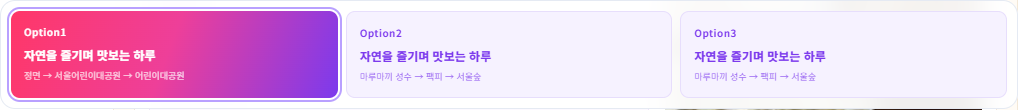
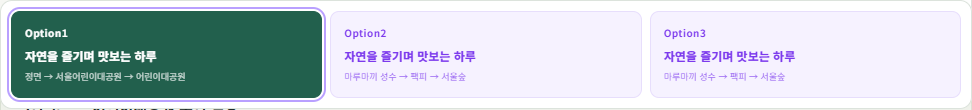
디자인 교체

diff --git a/datemate/static/calm.css b/datemate/static/calm.css
@@ -1,0 +1,17 @@
+/* Calm editorial theme. Keep behavior and component IDs in the existing app. */
+:root{--paper:#f7f8f4;--ink:#202d29;--muted:#56665e;--line:#dce3dc;--orange:#22604d;--green:#22604d;--soft:#edf3ed;--radius:16px;--gradient:linear-gradient(0deg,#22604d,#22604d)}
+body{background:var(--paper);color:var(--ink);font-size:15px;line-height:1.65}
+header{height:76px;background:#fffffff5;border-bottom:1px solid var(--line);padding-inline:max(24px,calc((100vw - 1320px)/2));gap:24px}
+.brand{color:var(--ink);font-size:21px}.brand-icon{background:#22604d;border-radius:13px;box-shadow:none;width:40px;height:40px;font-size:29px}.brand-name small{color:var(--muted);font-size:11px}.ai-label{display:none}nav{gap:24px}nav a,.nav{color:#526159;font-size:14px}.nav.active{color:#22604d}
+main{max-width:1400px;padding:0 40px}button,input,select,textarea{font:inherit}button,.primary,select,input:not([type=checkbox]):not([type=radio]):not([type=range]){min-height:44px}button{border-radius:10px}button:focus-visible,a:focus-visible,input:focus-visible,select:focus-visible,textarea:focus-visible,summary:focus-visible{outline:3px solid #22604d!important;outline-offset:4px}button:disabled{cursor:wait;opacity:.65}
+.primary{background:#22604d!important;color:#fff!important;box-shadow:none!important;border:1px solid #22604d!important;font-weight:700}.primary:hover{background:#194b3b!important}.nav-cta{font-size:13px;padding:10px 18px}
+.hero{min-height:0;padding:52px 0 48px;gap:56px;align-items:center;background:none}.hero:before,.hero:after{display:none}.hero-copy{flex:1}.hero-pill{background:none;border:0;box-shadow:none;color:#22604d;font-size:13px;padding:0;letter-spacing:.04em}.hero h1{font-size:clamp(32px,3.1vw,47px);line-height:1.28;letter-spacing:-1.8px;margin:18px 0 20px}.hero h1 em{background:none;color:#22604d;-webkit-text-fill-color:#22604d}.hero-description{font-size:16px;line-height:1.85;color:#526159;max-width:580px}.hero-photo{margin:26px 0 0;position:relative;overflow:hidden;border-radius:16px;height:210px;max-width:600px}.hero-photo img{display:block;width:100%;height:100%;object-fit:cover;object-position:center 65%}.hero-photo figcaption{position:absolute;bottom:12px;left:14px;background:#183329e8;color:white;padding:5px 10px;border-radius:6px;font-size:12px}
+.quick-builder{flex:0 0 420px;width:420px;background:#fff;border:1px solid var(--line);border-radius:20px;padding:28px;box-shadow:0 8px 32px #23392b08}.eyebrow{color:#22604d!important;font-size:12px;letter-spacing:.08em}.quick-builder>.eyebrow span{display:none}.quick-builder h2{font-size:24px;letter-spacing:-.7px}.quick-label{font-size:14px;margin:22px 0 10px;color:var(--ink)}.quick-label small{color:var(--muted);font-size:12px}.quick-regions{gap:8px}.quick-regions button{font-size:13px;padding:8px 6px}.quick-regions button,.quick-moods button{border:1px solid var(--line);background:white;color:var(--ink);box-shadow:none!important}.quick-regions button[aria-pressed=true],.quick-moods button[aria-pressed=true]{background:#edf3ed!important;color:#184d3a!important;border:2px solid #22604d!important;box-shadow:none!important}.quick-moods button{min-height:76px;font-size:14px;border-radius:10px}.quick-moods small,.quick-moods button[aria-pressed=true] small{font-size:12px;color:#526159!important}.quick-budget{border:0;background:#f7f8f4;border-radius:12px;padding:16px;margin:22px 0}.quick-budget label{font-size:13px}.quick-budget output{color:#22604d;font-size:21px}.quick-budget input{accent-color:#22604d;background:#dce8dd}.quick-budget>div,.quick-footnote{color:var(--muted);font-size:12px}.quick-footnote{line-height:1.6;margin-bottom:0}.quick-builder .full{min-height:48px}
+.workspace-intro{border-top:1px solid var(--line);padding-top:32px;margin:10px 0 28px}.workspace-intro h2{font-size:28px;color:var(--ink)}.workspace{grid-template-columns:320px minmax(0,1fr);gap:28px}.panel,.conditions.panel{background:#fff;border:1px solid var(--line);border-radius:16px;box-shadow:none}.conditions.panel{padding:22px}.section-heading{gap:10px}.section-heading h2{font-size:20px}.step{background:#edf3ed;color:#22604d;border-radius:7px}.conditions label,.conditions legend{font-size:13px;color:#34473c}.conditions fieldset{border-color:var(--line);border-radius:10px}.conditions input,.conditions select,.conditions textarea{border-color:#c8d3c9;border-radius:8px;background:#fff;color:var(--ink)}.conditions textarea{font-size:14px;line-height:1.65}.hint,.muted,.small,.conditions .hint,.detail .hint{color:var(--muted);font-size:12px;line-height:1.7}summary{min-height:44px;align-content:center;font-size:13px;cursor:pointer}.service-details{color:var(--muted)}
+.empty-state{background:#eef2eb;border:1px solid var(--line);border-radius:16px;min-height:390px;padding:32px 24px}.empty-state h3{font-size:28px}.empty-state em,.journal-heart,.journal-steps b{color:#22604d}.journal-top{color:#526159;font-size:11px}.journal-spark,.journal-orbit{display:none}.journal-heart{font-size:54px}.journal-illustration{height:90px}.journal-steps{font-size:12px}.journal-demo{font-size:12px!important}
+.plan-card,.plan-card.selected{border-radius:14px;box-shadow:none;background:#fff;border:1px solid var(--line)}.plan-card.selected{border:2px solid #22604d;background:#fff}.plan-card h3{font-size:22px}.plan-card .number,.route-line{color:#22604d}.plan-option-tabs{border-radius:12px!important;background:#fff!important;box-shadow:0 4px 12px #20302606}.plan-option-tabs button{white-space:normal;font-size:13px;min-height:48px}.plan-option-tabs button[aria-pressed=true],.plan-option-tabs button[aria-selected=true]{background:#22604d!important;color:white!important;border-color:#22604d!important}.stats small{color:var(--muted);font-size:12px}.detail.panel{background:transparent;border:0}.detail .actions button{background:#edf3ed;color:#22604d;border-color:#cfddcf}.timeline-card{border-color:var(--line);border-radius:16px;padding:22px;box-shadow:none}.stop:before{border-color:#9fb7a5}.stop-number{color:#22604d;border-color:#9fb7a5}.timeline-stamp strong{font-size:22px}.timeline-stamp small{font-size:12px;color:var(--muted)}.step-category,.stop:nth-of-type(even) .step-category,.tag{background:#edf3ed;color:#22604d;font-size:12px}.stop h4{font-size:22px;line-height:1.5}.stop-cost{color:#22604d;font-size:13px;background:#f3f6f1}.route-line{font-size:13px}.place-blogs{background:#f7f8f4!important;border-color:var(--line)!important}.place-blogs summary{color:#22604d!important}.plan-photo-item>strong{font-size:13px}.meal-suggestions{background:#f1f4ed!important;border-color:#dce3d6!important;border-radius:14px!important;margin-left:0!important}.meal-card{border-color:var(--line)!important}.condition-differences{background:#fff8ed!important;border-color:#e6d3ac!important}.data-banner{background:#e8eee5;color:var(--ink);border-radius:16px;box-shadow:none;padding:28px;margin-bottom:48px}.data-banner .eyebrow,.data-banner p:not(.eyebrow),.data-point span{color:#526159}.data-point{background:transparent;border:0;border-left:1px solid #c9d5c7;border-radius:0;min-height:0;padding:10px 18px}.data-point strong{color:#22604d;font-size:27px}.data-point span{font-size:13px}.data-banner h2{font-size:23px}.data-banner p:not(.eyebrow){font-size:13px}.curation{margin-top:36px;padding-top:24px}.curation-heading{text-align:left}.curation-heading h2{font-size:28px}.curation-heading>p:last-child{font-size:14px;color:var(--muted)}.curation-card{border-radius:14px;box-shadow:none;transition:border-color .15s}.curation-card:hover{transform:none;border-color:#22604d;box-shadow:none}.preset-art{height:100px;font-size:36px;justify-content:flex-start;padding:24px}.preset-art span{font-size:30px;color:#526159}.art-pink{background:#eee9e1}.art-mint{background:#e5ece2}.art-blue{background:#e4eaf0}.preset-copy{padding:22px}.preset-copy h3{font-size:19px;line-height:1.5}.preset-copy p{font-size:13px;color:var(--muted)}.preset-copy strong{color:#22604d;font-size:13px}footer{color:var(--muted);font-size:13px}#progress:not(:empty){background:#edf3ed;color:#22604d}
+.secondary,#parse{background:#edf3ed!important;color:#22604d!important;border:1px solid #cfddcf!important;box-shadow:none!important}.date-subcategories input:checked+span{background:#22604d!important;color:white!important;border-color:#22604d!important}.date-subcategories span{font-size:12px;min-height:44px}.date-category-tab{font-size:12px}.hero .hero-description{font-size:16px}.quick-builder .quick-footnote{font-size:12px}
+@media(min-width:1001px){.hero-copy{max-width:none}}
+@media(max-width:1100px){header{gap:16px;padding-inline:24px}nav{gap:14px}.nav-cta{display:none}.hero{gap:28px}.quick-builder{flex-basis:380px;width:380px;padding:24px}.workspace{grid-template-columns:290px minmax(0,1fr)}}
+@media(max-width:800px){header{height:auto;min-height:72px;padding:12px 20px;flex-wrap:wrap;gap:10px}header nav{width:100%;justify-content:space-between;gap:8px}nav a,.nav{font-size:12px;min-height:40px;align-content:center}main{padding:0 20px}.hero{display:flex;flex-direction:column;gap:24px;padding:28px 0}.hero-copy{width:100%}.hero h1{font-size:34px;letter-spacing:-1.2px}.hero-description{font-size:14px}.hero-photo{height:160px;max-width:none;margin-top:20px}.quick-builder{flex:auto;width:100%;max-width:none;padding:22px}.workspace{grid-template-columns:1fr;gap:28px}.workspace-intro h2,.curation-heading h2{font-size:25px}.data-banner{grid-template-columns:1fr;gap:10px;padding:24px}.data-point{display:flex;align-items:center;gap:18px;border-left:0;border-top:1px solid #c9d5c7;padding:12px 0}.curation-grid{grid-template-columns:1fr}.preset-art{height:74px}.curation-card{display:grid;grid-template-columns:80px minmax(0,1fr)}.preset-art{height:100%;padding:16px;font-size:30px;flex-direction:column;justify-content:center}.preset-copy{padding:18px}.preset-copy h3{margin:10px 0}.preset-copy p{min-height:0}.preset-copy .tag{font-size:11px}.stop{grid-template-columns:52px minmax(0,1fr);gap:10px}.stop:before{left:44px}.timeline-stamp{padding-right:9px}.timeline-stamp strong{font-size:16px}.timeline-stamp small{font-size:11px}.timeline-card{padding:15px;border-radius:12px}.stop h4{font-size:19px}.route-line{padding-left:62px}.section-heading{flex-wrap:wrap}.section-heading h2{font-size:19px}.journal-steps{gap:8px;font-size:11px}.empty-state{padding:24px 16px}.plan-option-tabs{position:static!important}.meal-suggestions{margin-left:0!important}.data-banner h2{font-size:23px}}
+@media(prefers-reduced-motion:reduce){html{scroll-behavior:auto}*,*:before,*:after{animation:none!important;transition:none!important}}

diff --git a/datemate/static/index.html b/datemate/static/index.html
@@ -1,10 +1,10 @@
 <!doctype html>
-<html lang="ko"><head><meta charset="UTF-8"><meta name="viewport" content="width=device-width,initial-scale=1"><title>서울 데이트메이트 · 서울 데이트 코스 추천</title><link rel="stylesheet" href="/static/vendor/leaflet/leaflet.css"><link rel="stylesheet" href="/static/style.css"><link rel="stylesheet" href="/static/place-photos.css"><link rel="stylesheet" href="/static/plan-map.css"><link rel=stylesheet href=/static/location-picker.css><link rel="stylesheet" href="/static/selle.css"><link rel="stylesheet" href="/static/date-categories.css"><script src="/static/vendor/leaflet/leaflet.js" defer></script><script src="/static/location-picker.js" defer></script><script src="/static/maps.js" defer></script><script src="/static/recommendation-feedback.js" defer></script><script src="/static/date-categories.js" defer></script><script src="/static/wikimedia-photos.js" defer></script><script src="/static/place-blogs.js" defer></script><script src="/static/meal-suggestions.js" defer></script><script src="/static/place-photos.js" defer></script><script src="/static/price-controls.js" defer></script><script src="/static/experience.js" defer></script><script src="/static/app.js" defer></script><script src="/static/course-search.js" defer></script><script src="/static/romance.js" defer></script><script src="/static/quick-builder.js" defer></script></head>
+<html lang="ko"><head><meta charset="UTF-8"><meta name="viewport" content="width=device-width,initial-scale=1"><title>서울 데이트메이트 · 서울 데이트 코스 추천</title><link rel="stylesheet" href="/static/vendor/leaflet/leaflet.css"><link rel="stylesheet" href="/static/style.css"><link rel="stylesheet" href="/static/place-photos.css"><link rel="stylesheet" href="/static/plan-map.css"><link rel=stylesheet href=/static/location-picker.css><link rel="stylesheet" href="/static/selle.css"><link rel="stylesheet" href="/static/date-categories.css"><link rel="stylesheet" href="/static/calm.css"><script src="/static/vendor/leaflet/leaflet.js" defer></script><script src="/static/location-picker.js" defer></script><script src="/static/maps.js" defer></script><script src="/static/recommendation-feedback.js" defer></script><script src="/static/date-categories.js" defer></script><script src="/static/wikimedia-photos.js" defer></script><script src="/static/place-blogs.js" defer></script><script src="/static/meal-suggestions.js" defer></script><script src="/static/place-photos.js" defer></script><script src="/static/price-controls.js" defer></script><script src="/static/experience.js" defer></script><script src="/static/app.js" defer></script><script src="/static/course-search.js" defer></script><script src="/static/romance.js" defer></script><script src="/static/quick-builder.js" defer></script></head>
 <body>
 <header><a class="brand" href="/"><span class="brand-icon">♡</span><span class="brand-name">데이트메이트<small>취향을 담은 서울 데이트 설계</small></span><span class="ai-label">AI Planner</span></a><nav><button id="nav-plan" class="nav active">코스 만들기</button><button id="nav-explore" class="nav">서울 장소 둘러보기</button><a href="#curation">테마별 추천</a></nav><a class="primary nav-cta" href="#planner-section">우리 코스 설계하기 →</a><span id="mode-badge" class="mode-badge">SEOUL PLANNER</span></header>
 <main>
 <section class="hero romance-hero">
-<div class="hero-copy"><p class="hero-pill">● 서울에서 만나는, 우리만의 하루</p><h1>오늘 어디 갈지 고민 끝,<br><em>우리다운 하루를 설계해요</em></h1><p class="hero-description">취향에 맞는 장소부터 사진과 블로그 후기, 이동 시간과 예산까지.<br>흩어진 데이트 아이디어를 하나의 코스로 이어 보세요.</p><div class="route-feature"><div class="route-art" aria-hidden="true"><span>☕</span><i></i><span>✦</span><i></i><span>♡</span></div><div><p class="eyebrow">A LITTLE PLAN, A LOVELY DAY</p><strong>“카페 갔다가 뭐 하지?”<br>그다음 설렘까지 이어지는 코스</strong><div class="feature-tags"><span>서울 전역</span><span>사진 · 후기</span><span>맞춤 이동 동선</span></div></div></div></div>
+<div class="hero-copy"><p class="hero-pill">● 서울에서 만나는, 우리만의 하루</p><h1>오늘 어디 갈지 고민 끝,<br><em>우리다운 하루를 설계해요</em></h1><p class="hero-description">취향에 맞는 장소부터 사진과 블로그 후기, 이동 시간과 예산까지.<br>흩어진 데이트 아이디어를 하나의 코스로 이어 보세요.</p><figure class="hero-photo"><img src="/static/images/seoul-evening.jpg" alt="해 질 무렵 서울의 골목 풍경" width="1400" height="933"><figcaption>익숙한 서울, 새로운 하루.</figcaption></figure></div>
 <div class="quick-builder"><p class="eyebrow">QUICK DATE BUILDER <span>✧</span></p><h2>나만의 맞춤 코스 설계</h2><p class="quick-label">1. 어디에서 데이트할까요? <small>데이트할 지역 선택</small></p><div class="quick-regions"><button type="button" data-region="성수" aria-pressed="true">🏙 성수</button><button type="button" data-region="연남" aria-pressed="false">🌿 연남</button><button type="button" data-region="종로" aria-pressed="false">🏛 종로</button><button type="button" data-region="강남" aria-pressed="false">✨ 강남</button></div><p class="quick-label">2. 오늘 원하는 데이트 무드는?</p><div class="quick-moods"><button type="button" data-quick-mood="편안한 데이트" aria-pressed="true">💖 로맨틱한<small>산책 · 풍경 · 여유</small></button><button type="button" data-quick-mood="활동적인 데이트" aria-pressed="false">🎨 활동적인<small>체험 · 새로운 즐거움</small></button><button type="button" data-quick-mood="지적인 데이트" aria-pressed="false">📚 문화 산책<small>전시 · 박물관 · 이야기</small></button><button type="button" data-quick-mood="사교적인" aria-pressed="false">☕ 함께 수다<small>카페 · 대화 · 맛집</small></button></div><div class="quick-budget"><label for="quick-budget">3. 전체 예상 예산 <output id="quick-budget-value">100,000원</output></label><input id="quick-budget" type="range" min="10000" max="300000" step="10000" value="100000"><div><span>가볍게 1만원</span><span>넉넉하게 30만원</span></div></div><button type="button" id="quick-start" class="primary full">✦ 맞춤 데이트 코스 만들기 →</button><p class="quick-footnote">기본 2인 · 상세 조건에서 날짜와 데이트할 지역을 변경할 수 있어요.</p></div>
 </section>
 <details class="service-details"><summary>서울 전용 서비스 · 데이터 및 이용 안내 <span>+</span></summary><div class="notice" id="status" role="status">서비스 상태를 확인하고 있어요.</div></details>

diff --git a/datemate/scripts/check_calm_design_ui.py b/datemate/scripts/check_calm_design_ui.py
@@ -1,0 +1,39 @@
+"""Browser smoke checks for the calm theme, without paid recommendation calls."""
+from pathlib import Path
+import json
+from playwright.sync_api import sync_playwright
+
+out = Path(__file__).resolve().parents[1] / 'docs' / 'screenshots'
+out.mkdir(parents=True, exist_ok=True)
+with sync_playwright() as pw:
+    browser = pw.chromium.launch(channel='msedge', headless=True)
+    page = browser.new_page(viewport={'width':1440,'height':1000})
+    errors = []
+    page.on('pageerror', lambda e: errors.append(str(e)))
+    page.goto('http://127.0.0.1:8000', wait_until='networkidle')
+    page.locator('[data-region="연남"]').click()
+    assert page.locator('[data-region="연남"]').get_attribute('aria-pressed') == 'true'
+    page.locator('#quick-budget').fill('130000')
+    assert '130,000' in page.locator('#quick-budget-value').inner_text()
+    assert page.locator('.hero-photo img').evaluate('(img)=>img.complete && img.naturalWidth>0')
+    page.screenshot(path=str(out/'calm-desktop.png'), full_page=True)
+    page.locator('#nav-explore').click()
+    assert page.locator('#explore-section').is_visible()
+    page.locator('#nav-plan').click()
+    assert page.locator('#planner-section').is_visible()
+    page.locator('[data-preset="종로"]').click()
+    assert page.locator('[data-region="종로"]').get_attribute('aria-pressed') == 'true'
+    for width in [390, 768, 1024, 1440]:
+        page.set_viewport_size({'width':width,'height':900})
+        assert page.evaluate('document.documentElement.scrollWidth <= innerWidth'), width
+    page.set_viewport_size({'width':390,'height':844})
+    page.evaluate('window.scrollTo(0,0)')
+    page.screenshot(path=str(out/'calm-mobile.png'), full_page=True)
+    page.locator('#quick-start').focus()
+    assert page.locator('#quick-start').evaluate('(e)=>e===document.activeElement')
+    page.emulate_media(reduced_motion='reduce')
+    assert page.evaluate('getComputedStyle(document.documentElement).scrollBehavior') == 'auto'
+    assert not errors, errors
+    print(json.dumps({'viewport_widths':[390,768,1024,1440], 'horizontal_overflow':False,
+                      'region_budget_presets_navigation':'passed','image':'loaded', 'page_errors':errors}))
+    browser.close()

diff --git a/datemate/docs/design-review.md b/datemate/docs/design-review.md
@@ -1,0 +1,49 @@
+# 데이트메이트 디자인 검토 · 2026-10-22
+
+## 범위와 방향
+
+세계적인 엔터테인먼트 서비스 10곳을 대표 사례로 선정했다. 객관적인 ‘세계 최고 10개’ 순위가 아니다. 공개 페이지의 정보 구조와 공식 제품 설명을 비교했다. 로그인 뒤 개인화 화면이나 모든 서비스의 실제 시각 화면을 직접 사용해 평가한 것은 아니다. Disney+, YouTube, Twitch, IMDb는 접근 제한 또는 동적 페이지 때문에 공식 카탈로그·제품 설명·도움말로 보완했다.
+
+데이트메이트는 영상을 소비하는 서비스보다 여러 조건을 비교해 방문을 결정하는 도구에 가깝다. 따라서 몰입형 검은 배경, 자동 재생, 강한 그라데이션 대신 읽기 편한 밝은 배경, 일관된 선택 표시, 장소 콘텐츠 중심의 구성을 적용한다.
+
+## 10개 서비스 비교
+
+| 서비스 / 확인한 공개 자료 | 참고한 구조 | 데이트메이트 적용 판단 |
+|---|---|---|
+| [Netflix](https://www.netflix.com/) | 시작 행동, 인기 콘텐츠, 설명과 FAQ를 구분 | 핵심 코스 만들기 버튼을 명확히. 자동 재생이나 근거 없는 인기 수치는 제외 |
+| [Spotify](https://www.spotify.com/kr-ko/premium/) | 핵심 시작 행동과 플랜 비교를 구분 | 첫 화면 빠른 선택과 아래 상세 설정을 분리. 모든 기능을 동등하게 강조하지 않음 |
+| [Disney+ 공식 카탈로그](https://ondisneyplus.disney.com/all-disney-plus-original-movies) | 작품을 탐색할 수 있는 카탈로그 | 장소 사진과 제목 중심으로 탐색. 방문 장소와 무관한 장식 이미지는 줄임 |
+| [YouTube 공식 제품 설명](https://blog.youtube/news-and-events/youtube-features-and-updates-2024/) | 큰 썸네일·텍스트, 단순한 인터페이스를 설명 | 읽을 수 있는 보조 글자, 일정과 사진의 역할 분리. 해당 설명의 일부는 TV용이며 웹 전체의 관찰 결과가 아님 |
+| [Twitch 공식 카테고리 안내](https://help.twitch.tv/s/article/about-twitch-categories) | 카테고리로 콘텐츠 발견을 돕는 구조 | 지역·취향 선택의 위치와 선택 상태를 명확히. 피드의 높은 정보 밀도는 가져오지 않음 |
+| [Steam](https://store.steampowered.com/) | 추천, 태그, 가격을 통한 탐색 | 코스의 취향 태그·비용을 일정한 시각 체계로 표시. 할인 배너식 강조는 제외 |
+| [Nintendo](https://www.nintendo.com/us/) | 게임·캐릭터·상품별 탐색 | 밝은 분위기와 익숙한 분류는 참고. 큰 캐릭터 장식 대신 서울 풍경 사용 |
+| [PlayStation](https://www.playstation.com/en-us/) | 게임·플랫폼 등 명확한 콘텐츠 묶음 | 상단 탐색과 본문 구획의 위계를 유지. 대형 캠페인 화면은 축소 |
+| [LEGO](https://www.lego.com/en-us) | 테마·나이·관심사·가격별 탐색 | 사용자가 아는 취향 이름과 예산을 선택 단서로 유지 |
+| [IMDb 공식 Watchlist 안내](https://help.imdb.com/article/imdb/track-movies-tv/watchlist-faq/G9PA556494DM8YBA) | 관심 작품을 모으고 다시 보는 비교 흐름 | 코스 옵션 비교와 다시 살펴보기 기능 유지. 확인되지 않은 별점은 만들지 않음 |
+
+## 연구 근거와 해석의 한계
+
+- [Tuch 외, 2012 / Google Research](https://research.google/pubs/the-role-of-visual-complexity-and-prototypicality-regarding-first-impression-of-websites-working-towards-understanding-aesthetic-judgments/): 시각적 복잡성과 익숙한 구조가 웹사이트의 초기 미적 판단에 영향을 주었다. 이를 근거로 배경 장식과 경쟁하는 강조색을 줄였다. 이 연구가 우리 서비스의 전환율·만족도 향상을 입증하지는 않는다.
+- [Nielsen Norman Group: Recognition and Recall](https://www.nngroup.com/articles/recognition-and-recall/): 기억해서 입력하는 부담보다 보이는 선택 단서를 제공하는 방향을 참고했다. 지역·취향 예시를 유지하고 선택 색상과 테두리를 일관되게 했다.
+- [Progressive Disclosure](https://www.nngroup.com/articles/progressive-disclosure/): 빠른 시작과 상세 조건의 기존 분리를 유지했다. 필수 설정을 숨겨 제출 오류를 일으키는 변경은 하지 않았다.
+- [WCAG 텍스트 대비](https://www.w3.org/WAI/WCAG21/Understanding/contrast-minimum.html): 핵심 본문·보조 문구·버튼 색의 대비를 확보하는 기준으로 사용했다. 일반 텍스트 기준 4.5:1. 전체 UI의 WCAG 준수 인증을 의미하지 않는다.
+- [WCAG 2.2 타깃 크기](https://www.w3.org/WAI/WCAG22/Understanding/target-size-minimum.html): 최소 크기 기준은 예외를 포함해 24 CSS px이다. 이 프로젝트의 주요 폼 버튼은 더 넉넉한 44px 이상을 목표로 잡았다. 지도 내 컨트롤 등 모든 요소를 44px로 강제하지는 않았다.
+
+## 구현
+
+- 따뜻한 회백색 바탕 `#f7f8f4`, 본문 `#202d29`, 보조 문구 `#56665e`, 핵심 행동 `#22604d`.
+- 분홍·보라 그라데이션과 장식 도형을 줄이고 기존 서울 골목 사진 사용. 개별 추천 장소의 사진으로 오인하지 않도록 일반적인 풍경 문구 사용.
+- 첫 화면 제목·설명·빠른 설정으로 시선 흐름 정리. 과장된 이용자 수나 만족도는 추가하지 않음.
+- 카드 테두리·반경·버튼·선택 상태 통일. 가격·일정·블로그 연결 기능 유지.
+- 식당 추천의 불필요한 왼쪽 여백 제거. 작은 화면의 일정 카드 여백과 타임라인 폭 조정.
+- 키보드 포커스 표시, 동작 줄이기 설정 대응, 보조 문구 크기 개선.
+- `static/calm.css`를 마지막 테마로 적용하여 기존 기능 스크립트와 API 계약은 유지.
+
+## 확인
+
+- Edge / Playwright: 390·768·1024·1440px에서 가로 넘침 없음.
+- 지역·예산·테마 프리셋·탐색 전환·대표 사진 로딩·키보드 포커스·동작 줄이기 점검 통과.
+- 기존 옵션 UI 점검 통과: 3개 옵션 전환, 선택 옵션 상단, 사진/정보, 잠금, 장소 변경 및 되돌리기, 링크 복사, 인쇄 핸들러, 식당/블로그, 주소 검색, 지도 선택, 요청 해석. JavaScript 페이지 오류 없음.
+- 실제 사용자 실험은 미실시. 후속 평가에서는 ‘원하는 코스를 고르는 시간’, 조건 변경 성공률, 글자 가독성, 이탈 이유를 관찰하는 것이 적절하다. 미적 선호는 개인차가 있으므로 개선 수치를 미리 약속하지 않는다.
+
+재현: `python scripts/check_calm_design_ui.py`, `python scripts/check_option_controls_ui.py` (실행 중인 로컬 서버 필요).
